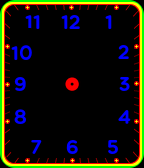
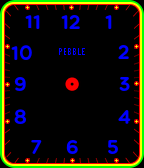
reconfigure d_watch for moon phase

diff --git a/config_watch.py b/config_watch.py
@@ -283,13 +283,14 @@ faces = {
         'date_window_c' : [ (49, 125, 'w'), (49, 125, 'b') ],
         'date_window_d' : [ (95, 125, 'w'), (95, 125, 'b') ],
         'date_window_filename' : ('date_window.png', 'date_window_mask.png'),
-        'bluetooth' : [ (49, 45, 'b'), (49, 45, 'b') ],
-        'battery' : [ (79, 49, 'b'), (79, 49, 'b') ],
+        'top_subdial' : [ (32, 34, 'w'), (32, 34, 'b'), ],
+        'bluetooth' : [ (36, 29, 'b'), (49, 45, 'b') ],
+        'battery' : [ (95, 33, 'b'), (79, 49, 'b') ],
         'defaults' : [ 'day:c', 'date:d', 'bluetooth', 'battery' ],
         },
     'e' : {
         'filename' : ['e_face.png', 'e_face_white.png'],
-        'colors' : [ (('Black', 'White', 'Yellow', 'PastelYellow'), ('White', 'Black')),
+        'colors' : [ (('Black', 'White', 'Yellow', 'PastelYellow'), ('PastelYellow', 'Black')),
                      (('Black', 'Yellow', 'PastelYellow', 'Yellow'), ('White', 'Black')),                     
                      (('Black', 'FashionMagenta', 'ShockingPink', 'White'), ('White', 'Black')),
                      (('Black', 'LavenderIndigo', 'BabyBlueEyes', 'White'), ('White', 'Black')),
@@ -299,6 +300,7 @@ faces = {
         'date_window_c' : (123, 82, 'w'),
         'date_window_d' : (72, 146, 'w'),
         'date_window_filename' : ('date_window.png', 'date_window_mask.png'),
+        'top_subdial' : (32, 32, 'w'),
         'bluetooth' : [ (11, 12, 'b'), (11, 12, 'w'), ],
         'battery' : [ (115, 16, 'b'), (115, 16, 'w'), ],
         'defaults' : [ 'date:c' ],
